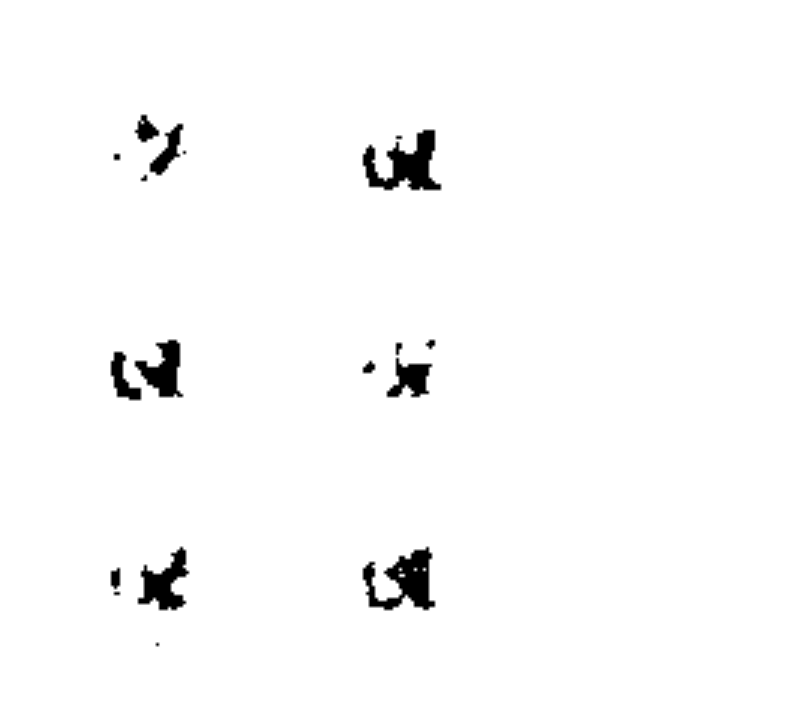
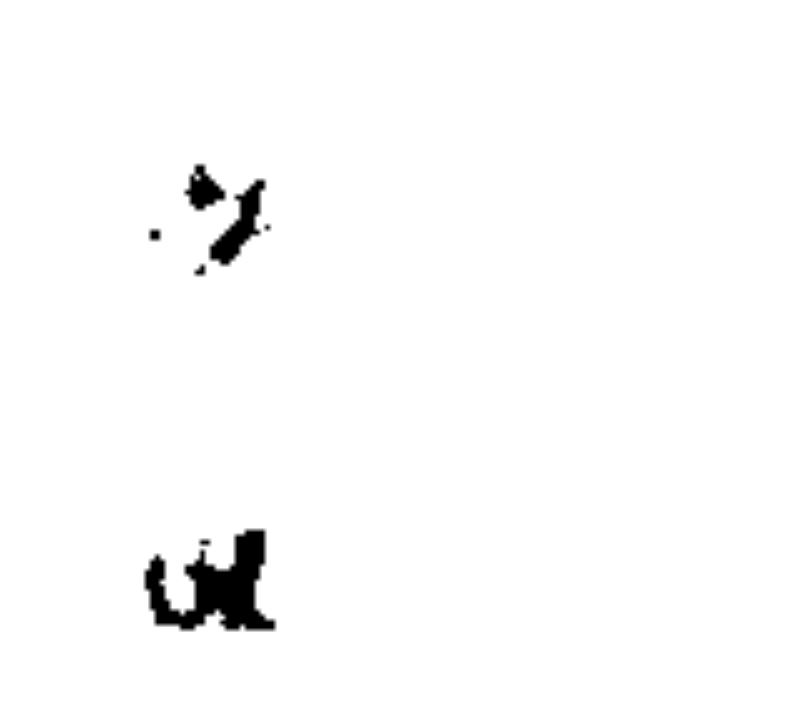
Increase default letter size to 320px, write full README documentation

diff --git a/App_UI/canvas.py b/App_UI/canvas.py
@@ -36,8 +36,8 @@ class CanvasWidget(QWidget):
 
         self._items: list[dict] = []    # {'type': 'letter'|'gap', 'pred': arr|None,
                                         #  'pixmap': QPixmap|None, 'rect': QRect|None}
-        self._letter_size: int = 192    # display px (scaled from 64)
-        self._line_height: int = 210
+        self._letter_size: int = 320    # display px (scaled from 64)
+        self._line_height: int = 340
         self._threshold: float = 0.30
         self._cursor_x: int = _MARGIN_L
         self._cursor_y: int = _MARGIN_T

diff --git a/App_UI/main.py b/App_UI/main.py
@@ -324,7 +324,7 @@ class HandwritingApp(QMainWindow):
         self._scale_spin = QSpinBox()
         self._scale_spin.setRange(64, 512)
         self._scale_spin.setSingleStep(32)
-        self._scale_spin.setValue(192)
+        self._scale_spin.setValue(320)
         self._scale_spin.setFixedWidth(68)
         self._scale_spin.setStyleSheet(
             "QSpinBox{background:#444;color:white;border:none;font-size:13px;padding:2px;}"

diff --git a/App_UI/README.md b/App_UI/README.md
@@ -1,27 +1,191 @@
-# App UI
+# Handwriting Demo App
 
-This folder contains all files and documentation related to the user interface and application development for the Senior Design project.
+Real-time handwriting recognition display for the Senior Design demo.
+Receives raw IMU data from a pen-mounted accelerometer (over BLE or USB),
+runs the trained PyTorch model, and renders the predicted letter strokes
+on a fullscreen white canvas — designed for display on a large TV.
 
-**People working on this:**
+---
 
-## Contents
-- User interface designs and mockups
-- Application frontend code
-- User experience documentation
-- UI/UX testing and validation
-- Responsive design implementations
+## Quick Start
 
-## Design Framework
-- Design system and style guides
-- Component library and reusable elements
-- Color schemes and typography
-- Icon sets and visual assets
+```bash
+cd App_UI
+pip install -r requirements.txt   # one-time setup
+python main.py
+```
 
-## Development
-- Frontend framework: [To be determined]
-- Mobile and web compatibility considerations
-- Accessibility standards compliance
-- Performance optimization guidelines
+The app opens **fullscreen** immediately. Press `F11` or `Escape` to exit fullscreen.
 
-## Status
-In Progress
+---
+
+## Requirements
+
+Install all dependencies with:
+
+```bash
+pip install -r requirements.txt
+```
+
+| Package | Purpose |
+|---|---|
+| `PyQt6` | GUI framework |
+| `torch` | PyTorch — model inference |
+| `scipy` | Butterworth filters for IMU preprocessing |
+| `numpy` | Numerical arrays |
+| `scikit-learn` | StandardScaler (saved with trained model) |
+| `pyserial` | USB serial connection to IMU |
+| `Pillow` | PDF export |
+| `bleak` | BLE connection (optional — only needed for wireless) |
+| `pandas` | Reading CSV files |
+
+> **GPU not required.** The model is small (~3 MB) and runs on CPU in under 50 ms per letter.
+
+---
+
+## Connecting to the IMU
+
+Click **Connect** in the bottom toolbar. Three connection modes are available:
+
+### USB Serial (recommended for demo backup)
+1. Select **USB Serial** tab
+2. Choose the COM port from the dropdown (click **Refresh** if it doesn't appear)
+3. Set baud rate (default `115200`)
+4. Click **OK**
+
+The IMU firmware should output comma-separated values:
+```
+acc_x,acc_y,acc_z,gyro_x,gyro_y,gyro_z
+```
+or the full STEVAL CSV format — the app handles both automatically.
+
+### BLE (wireless)
+1. Select **BLE** tab
+2. Enter the device name (e.g. `IMU_SENSOR`) or its MAC address
+3. Click **OK** — the app scans for up to 10 seconds
+4. Uses Nordic UART Service (NUS) by default
+
+> If BLE is unavailable, `bleak` gives a clear error message in a popup.
+
+### Replay a Recording
+1. Select **Replay** tab
+2. Click **Browse** and select a `.imu.json` file
+3. Choose playback speed (`1×` = real-time, `Instant` = all at once)
+4. Click **OK** — the canvas clears and letters appear as they were written
+
+A test recording (`test_replay.imu.json`) is included in this folder.
+
+---
+
+## Writing Letters
+
+Once connected, just write. The app automatically:
+
+- **Detects when a stroke starts** — based on accelerometer magnitude rising above a motion threshold
+- **Detects when a stroke ends** — ~300 ms of stillness after movement
+- **Runs inference** — the PyTorch model converts the ~2 s IMU window to a 64×64 letter image
+- **Displays the letter** — scaled up to 320 px, placed at the current cursor position
+- **Detects word gaps** — ~800 ms of stillness inserts a space between words
+- **Wraps to next line** — automatically when the current line fills the screen width
+
+---
+
+## All Controls
+
+### Bottom Toolbar
+
+| Button | Keyboard | Action |
+|---|---|---|
+| Connect | — | Open connection dialog (USB / BLE / Replay) |
+| Disconnect | — | Stop receiving IMU data |
+| ↩ Undo | `Ctrl+Z` | Remove the last predicted letter |
+| ✕ Clear | `Ctrl+L` | Erase the entire canvas and reset the recording |
+| Save PDF | `Ctrl+S` | Save the current canvas as a PDF file |
+| Export | `Ctrl+E` | Export the raw IMU recording for later replay |
+| Threshold | slider | Adjust binarization cutoff (0.05–0.70). Lower = more ink, higher = cleaner |
+| Scale | spinbox | Letter display size in pixels (64–512, default 320) |
+| F11 / Escape | — | Toggle fullscreen |
+
+### Activity Indicator
+The green dot `●` in the top-right status bar pulses every time an IMU sample arrives.
+If it stops pulsing, the connection has dropped.
+
+---
+
+## Saving and Exporting
+
+### Save PDF
+`Ctrl+S` → choose a file path → saves the current canvas exactly as displayed.
+Good for printing or sharing what was written.
+
+### Export IMU Recording
+`Ctrl+E` → choose a file path → saves a `.imu.json` file containing every raw IMU
+sample received since the last **Connect** or **Clear**.
+
+The recording can be loaded later via **Connect → Replay** to replay the exact
+page that was written, letter by letter, at the original speed or faster.
+
+**Recording starts automatically** whenever you connect or clear — no manual action needed.
+
+---
+
+## Replay File Format
+
+Recordings are plain JSON:
+
+```json
+{
+  "version": 1,
+  "created": "2026-05-01T12:00:00",
+  "sample_rate": 104,
+  "columns": ["t", "acc_x[mg]", "acc_y[mg]", "acc_z[mg]", "gyro_x[mdps]", "gyro_y[mdps]", "gyro_z[mdps]"],
+  "samples": [[0.0, 10.2, -3.1, 980.1, 0.0, 0.0, 0.0], ...],
+  "events":  [{"t": 1.23, "type": "stroke_complete", "n": 128}, ...]
+}
+```
+
+---
+
+## File Structure
+
+```
+App_UI/
+├── main.py           Main window — UI, toolbar, keyboard shortcuts, orchestration
+├── inference.py      PyTorch model definition + preprocessing pipeline
+├── stroke_buffer.py  Real-time stroke detection (causal HP filter + activity threshold)
+├── canvas.py         White canvas widget — letter layout, undo, threshold, PDF grab
+├── recorder.py       Saves raw IMU stream to .imu.json
+├── data_source.py    USB serial, BLE, and replay data sources (Qt signals)
+├── requirements.txt  Python dependencies
+└── test_replay.imu.json  Sample recording for testing
+```
+
+---
+
+## Model Details
+
+| Property | Value |
+|---|---|
+| File | `Signal_Processing_Algorithm/models/best_side_mount_model.pt` |
+| Architecture | 1D ResNet encoder → global avg-pool → ConvTranspose2d decoder |
+| Input | `(T, 11)` — any number of timesteps, 11 features |
+| Output | `(64, 64)` logits → sigmoid → threshold |
+| 11 Features | filtered acc xyz, filtered gyro xyz, acc magnitude, velocity xy, position xy |
+| Preprocessing | Butterworth HP filter (gravity removal) + double integration + StandardScaler |
+| Inference device | CPU (no GPU needed) |
+
+---
+
+## Tuning Tips
+
+- **Letters look too faint / sparse** → lower the Threshold slider (try 0.15–0.20)
+- **Letters look blobby / filled in** → raise the Threshold slider (try 0.40–0.50)
+- **Letters are too small for the TV** → increase Scale (try 384 or 448)
+- **Stroke cuts off early** → the motion threshold may be too high; check IMU placement
+- **Word gaps firing too often** → the pen is being held still too long between letters; this is expected behavior
+
+---
+
+## People Working On This
+
+Senior Design Team — embedded pen, IMU firmware, ML model, and this UI.
